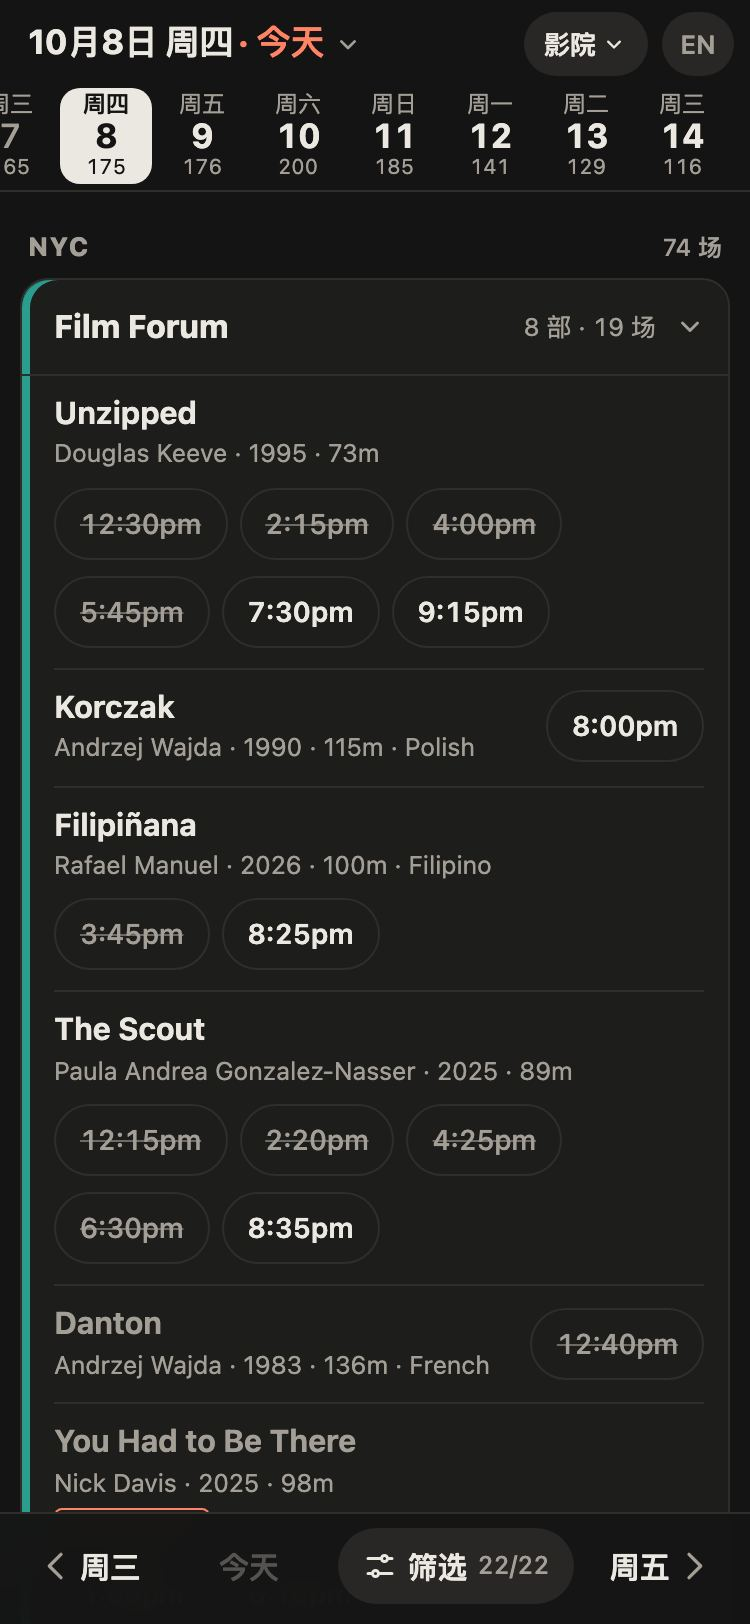
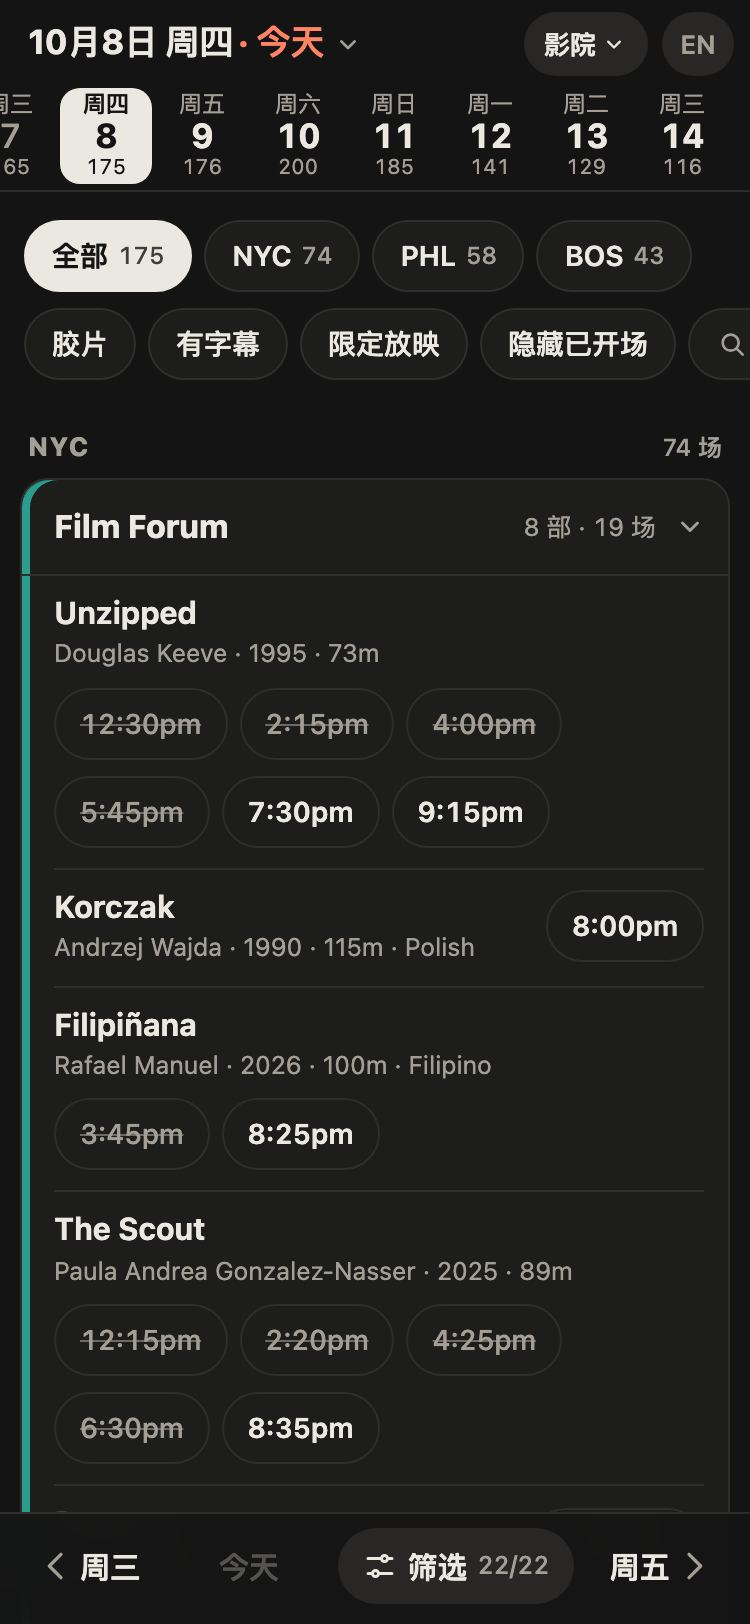
Cinemas layout: regions and filter switches as two rows of buttons above the cards
All / NYC / PHL / BOS with the day's counts (a region shows only that region; tapping it again brings all
back), then on film / subtitled / limited / hide started and search, so the common filters need no sheet.

diff --git a/site/m/_shared/chrome.js b/site/m/_shared/chrome.js
@@ -46,6 +46,7 @@
     filter: '<path d="M4 7h9M17 7h3M4 17h3M11 17h9"/><circle cx="15" cy="7" r="2"/><circle cx="9" cy="17" r="2"/>',
     down: '<path d="M7 10l5 5 5-5"/>',
     rows: '<path d="M4 6h16M4 10h16M4 14h16M4 18h16"/>',
+    search: '<circle cx="11" cy="11" r="6"/><path d="M20 20l-4.5-4.5"/>',
   };
   function icon(name, size = 20) {
     const s = el("span", { class: "m-ic", "aria-hidden": "true" });
@@ -141,6 +142,12 @@
     update({ regions, venues: withVenues });
   }
 
+  /** Every region on; one that was off comes back with all of its cinemas (as on the main page). */
+  function showAllRegions() {
+    const back = m.active.filter((v) => !state.regions.has(m.regionOf(v))).map((v) => v.id);
+    update({ regions: new Set(m.regions), venues: new Set([...state.venues, ...back]) });
+  }
+
   function setLang(l) {
     lang = l; t = C.translator(l);
     try { store && store.setItem(C.LS.lang, l); } catch (_) { /* ignore */ }
@@ -175,7 +182,7 @@
     ui.extra = cfg.extra ? el("button", { type: "button", class: "m-b", onclick: () => cfg.extra.onClick(context()) }) : null;
     ui.filterLbl = el("span");
     ui.filterN = el("span", { class: "m-b-n" });
-    ui.filter = el("button", { type: "button", class: "m-b m-b-filter", "aria-haspopup": "dialog", onclick: openFilters },
+    ui.filter = el("button", { type: "button", class: "m-b m-b-filter", "aria-haspopup": "dialog", onclick: () => openFilters() },
       el("span", { class: "m-b-pill" }, icon("filter", 18), ui.filterLbl, ui.filterN));
     ui.bottom = el("nav", { class: "m-bottom" + (ui.extra ? " five" : "") }, ui.prev, ui.today, ui.extra, ui.filter, ui.next);
     ui.scrim = el("div", { class: "m-scrim", onclick: () => closeSheet() });
@@ -269,7 +276,7 @@
       C, m, t, lang, el, icon, dot, store, state, now, today, list: list || C.visible(m, state, state.day, now, today),
       day: state.day, isToday: state.day === today, main: ui.main, top: ui.top,
       update, go, showDetail, toast, longPress, timePill, venueBadge, onlyVenue, empty: emptyState,
-      refresh: () => render({ keep: true }),
+      refresh: () => render({ keep: true }), quickFilters: () => quickFilters(now),
     };
   }
 
@@ -285,6 +292,8 @@
     const ctx = context(null, now);
     const out = m.data.generated_at ? cfg.render(ctx) : emptyState(t("noData"));
     ui.main.replaceChildren(...[].concat(out).filter(Boolean));
+    const chips = ui.main.querySelector(".m-chips[data-noswipe]");
+    if (chips) chips.scrollLeft = chipScroll;           // a tap far along the row keeps the row where it was
     if (opts.dayChanged) window.scrollTo(0, 0);
     if (cfg.after) cfg.after(ctx, opts);
     if (sheet && sheet.refresh) sheet.refresh();
@@ -373,7 +382,36 @@
       el("button", { type: "button", class: "m-btn small", onclick: () => closeSheet() }, btnLabel || t("done")));
   }
 
-  function openFilters() {
+  /** Regions, then the four switches and search, as two rows of buttons above the content: one tap, no sheet.
+   *  A region button shows only that region; tapping the only one shown brings every region back. */
+  let chipScroll = 0;
+  function quickFilters(now = new Date()) {
+    const day = m.forDay(state.day).filter((s) => C.passes(s, state, now, today));
+    const allOn = m.regions.every((r) => state.regions.has(r));
+    // what a region shows once picked: its chosen cinemas, or all of them when it is off now
+    const countIn = (r) => day.filter((s) => {
+      const v = m.venueById[s.venue_id] || {};
+      return m.regionOf(v) === r && (!state.regions.has(r) || state.venues.has(v.id));
+    }).length;
+    const chip = (label, on, onclick, n, cls = "") => el("button", {
+      type: "button", class: `m-chip${cls}${on ? " on" : ""}`, "aria-pressed": String(on), onclick,
+    }, label, n != null ? el("span", { class: "n" }, n) : null);
+    const regions = m.regions.length > 1 ? el("div", { class: "m-chips regions", role: "group", "aria-label": t("regions") },
+      chip(t("all"), allOn, showAllRegions, m.regions.reduce((n, r) => n + countIn(r), 0)),
+      m.regions.map((r) => chip(r, !allOn && state.regions.has(r),
+        () => (state.regions.size === 1 && state.regions.has(r) ? showAllRegions() : toggleRegion(r, true)), countIn(r)))) : null;
+    const switches = el("div", { class: "m-chips", role: "group", "aria-label": t("filter"), "data-noswipe": "",
+      onscroll: (e) => { chipScroll = e.currentTarget.scrollLeft; } },
+      [["film", "onFilm"], ["subs", "subs"], ["specials", "specials"], ["upcoming", "upcoming"]].map(([k, label]) =>
+        chip(t(label), state[k], () => update({ [k]: !state[k] }), null, " tg")),
+      state.q
+        ? el("button", { type: "button", class: "m-chip on", "aria-label": `${t("clearSearch")}: ${state.q}`, onclick: () => update({ q: "" }) },
+          `“${state.q}”`, el("span", { class: "x", "aria-hidden": "true" }, "×"))
+        : el("button", { type: "button", class: "m-chip", "aria-haspopup": "dialog", onclick: () => openFilters(true) }, icon("search", 16), t("searchShort")));
+    return el("div", { class: "m-qf" }, regions, switches);
+  }
+
+  function openFilters(focusSearch = false) {
     const count = el("strong", { class: "m-f-count", "aria-live": "polite" });
     let timer;
     const q = el("input", {
@@ -418,6 +456,7 @@
         }));
     };
     openSheet([sheetHead(count), q, toggles, venues], { label: t("filter"), refresh: fill, cls: "filters" });
+    if (focusSearch) q.focus({ preventScroll: true });
   }
 
   function mapsUrl(place) {

diff --git a/site/m/_shared/core.js b/site/m/_shared/core.js
@@ -15,7 +15,7 @@
     { id: "agenda", zh: "时间流", en: "Agenda",
       zhD: "所有影院按开始时间排成一列、按小时分组；已开场的折叠起来", enD: "Every cinema in one column by start time, grouped by hour; started shows fold away" },
     { id: "venues", zh: "影院", en: "Cinemas",
-      zhD: "一家影院一张卡，每部片一行，场次时间是可点的按钮", enD: "A card per cinema, a row per film, its times as buttons" },
+      zhD: "一家影院一张卡，每部片一行，场次时间是可点的按钮；区域和筛选开关就在页面上", enD: "A card per cinema, a row per film, its times as buttons; regions and filter switches right on the page" },
     { id: "guide", zh: "节目表", en: "Guide",
       zhD: "电视节目表式的横向时间轴：一家影院一行，重叠的场次上下叠放", enD: "A TV-guide timeline: a row per cinema, overlapping shows stacked" },
     { id: "films", zh: "影片", en: "Films",
@@ -36,7 +36,7 @@
       filmsShows: (f, n) => `${f} 部 · ${n} 场`, stale: (r) => `旧数据 · ${r}`, failed: "抓取失败",
       viaTag: (src) => `这家的主源暂时抓取失败，数据来自 ${src}，可能不全`, regions: "区域", website: "影院官网",
       // phone pages
-      filter: "筛选", venuesShows: (n, k) => `${n} 家影院 · ${k} 场`, clear: "清空", done: "完成", cinemas: "影院",
+      filter: "筛选", all: "全部", searchShort: "搜索", clearSearch: "清除搜索", venuesShows: (n, k) => `${n} 家影院 · ${k} 场`, clear: "清空", done: "完成", cinemas: "影院",
       onlyRegion: (r) => `只看 ${r}`, longPress: "点按选中或取消，长按只看这一家", started: (n) => `已开场 ${n} 场`, startedTag: "已开场",
       hideStarted: "收起", now: "现在", seeTomorrow: "看明天", seeDay: (d) => `看 ${d}`, prevDay: "前一天", nextDay: "后一天",
       pickDate: "选择日期", demos: "换个方案", chooser: "全部方案与评测清单", fullSite: "完整版网页", lang: "English",
@@ -57,7 +57,7 @@
       dayEmpty: "No matching screenings at the selected cinemas on this day.", close: "Close", minutes: (n) => `${n} min`, runtimeUnknown: "runtime unknown",
       filmsShows: (f, n) => `${f} film${f === 1 ? "" : "s"} · ${n} show${n === 1 ? "" : "s"}`, stale: (r) => `Stale · ${r}`, failed: "Fetch failed",
       viaTag: (src) => `This cinema's own site failed; data from ${src}, may be incomplete`, regions: "Regions", website: "Cinema website",
-      filter: "Filters", venuesShows: (n, k) => `${n} cinema${n === 1 ? "" : "s"} · ${k} show${k === 1 ? "" : "s"}`, clear: "None", done: "Done", cinemas: "Cinemas",
+      filter: "Filters", all: "All", searchShort: "Search", clearSearch: "Clear search", venuesShows: (n, k) => `${n} cinema${n === 1 ? "" : "s"} · ${k} show${k === 1 ? "" : "s"}`, clear: "None", done: "Done", cinemas: "Cinemas",
       onlyRegion: (r) => `Only ${r}`, longPress: "Tap to select, press and hold for only that one", started: (n) => `${n} already started`, startedTag: "started",
       hideStarted: "Hide", now: "Now", seeTomorrow: "Tomorrow", seeDay: (d) => `Go to ${d}`, prevDay: "Previous day", nextDay: "Next day",
       pickDate: "Pick a date", demos: "Switch layout", chooser: "All layouts and the test sheet", fullSite: "Full website", lang: "中文",

diff --git a/site/m/venues/venues.js b/site/m/venues/venues.js
@@ -1,6 +1,6 @@
 /* Cinemas (MOBILE.md §4 B) — a card per cinema: region by region, the cinema whose next screening comes
  * first on top. Each film is a row with its start times as pills. Tap a card's name to fold it; press and
- * hold it to show only that cinema. */
+ * hold it to show only that cinema. Regions and the filter switches sit in a row of buttons above the cards. */
 (function () {
   "use strict";
   const { el, icon } = window.MChrome;
@@ -52,19 +52,16 @@
 
   function render(ctx) {
     const { C, m, t, list, now } = ctx;
-    if (!list.length) return ctx.empty();
+    const chips = ctx.quickFilters();                 // regions and switches one tap away, above the cards
+    if (!list.length) return [chips, ctx.empty()];
     const byVenue = C.groupByVenue(list);
-    const out = [];
-    for (const r of m.regions) {
-      const rows = byVenue.filter(([vid]) => m.regionOf(m.venueById[vid]) === r)
-        .sort((a, b) => next(a[1], now) - next(b[1], now) || Date.parse(a[1][0].start) - Date.parse(b[1][0].start));
-      if (!rows.length) continue;
-      if (m.regions.length > 1) {
-        out.push(el("h2", { class: "vn-region" }, r, el("span", {}, t("shows", rows.reduce((n, [, l]) => n + l.length, 0)))));
-      }
-      out.push(rows.map(([vid, l]) => card(ctx, m.venueById[vid], l)));
-    }
-    return el("div", { class: "vn" }, out);
+    const regions = m.regions.map((r) => [r, byVenue.filter(([vid]) => m.regionOf(m.venueById[vid]) === r)
+      .sort((a, b) => next(a[1], now) - next(b[1], now) || Date.parse(a[1][0].start) - Date.parse(b[1][0].start))])
+      .filter(([, rows]) => rows.length);
+    return [chips, el("div", { class: "vn" }, regions.map(([r, rows]) => [
+      regions.length > 1 ? el("h2", { class: "vn-region" }, r, el("span", {}, t("shows", rows.reduce((n, [, l]) => n + l.length, 0)))) : null,
+      rows.map(([vid, l]) => card(ctx, m.venueById[vid], l)),
+    ]))];
   }
 
   window.MChrome.start({

diff --git a/site/m/index.html b/site/m/index.html
@@ -97,8 +97,8 @@
         "Top ≤ 96px, bottom ≤ 64px", "Top bar 96px; bottom bar 56px, growing by inset − 22px on phones with a home bar (64px at most)."],
       ["ok", "不依赖缩放", "双指缩放仍然可用（没加 user-scalable=no），但不需要它。",
         "No zooming needed", "Pinch zoom still works (no user-scalable=no) but nothing needs it."],
-      ["part", "一屏 ≥ 10 场", "时间流 11–16 场、影片 10–21、节目表 7–15（停在当天第一场附近时少）；影院卡片 6–15——按影院排，一屏常常只是一家影院的几部片。",
-        "≥ 10 screenings per screen", "Agenda 11–16, Films 10–21, Guide 7–15 (fewer when it opens on the day's first show); Cinemas 6–15 — one screen is often a few films at one cinema."],
+      ["part", "一屏 ≥ 10 场", "时间流 11–16 场、影片 10–21、节目表 7–15（停在当天第一场附近时少）；影院卡片 5–15——按影院排，一屏常常只是一家影院的几部片，顶上两排按钮也占了一行的位置。",
+        "≥ 10 screenings per screen", "Agenda 11–16, Films 10–21, Guide 7–15 (fewer when it opens on the day's first show); Cinemas 5–15 — one screen is often a few films at one cinema, and the two rows of buttons on top take a film's worth of space."],
       ["part", "片名 ≥ 15px、最多 2 行", "时间流 / 影院 15.5px，影片 17px；节目表 13.5px 单行（§4 C 规定 44px 色块内单行）。",
         "Titles ≥ 15px, two lines", "Agenda / Cinemas 15.5px, Films 17px; Guide 13.5px on one line (a 44px block, as §4 C asks)."],
       ["ok", "对比度、深色模式", "影院颜色只做色点或左边条；文字都在页面底色上。",

diff --git a/site/m/_shared/core.css b/site/m/_shared/core.css
@@ -126,6 +126,27 @@ a { color: inherit; }
 .m-empty p { margin: 0 0 16px; font-size: 15px; }
 .m-empty-acts { display: flex; gap: 10px; justify-content: center; flex-wrap: wrap; }
 
+/* quick filters: a row of regions, then a row of switches and search that scrolls sideways if it must */
+.m-qf { padding: 10px 0 2px; }
+.m-chips {
+  display: flex; align-items: center; gap: 6px; padding: 4px 12px; overflow-x: auto;
+  overscroll-behavior-x: contain; scrollbar-width: none;
+}
+.m-chips.regions { flex-wrap: wrap; overflow: visible; }
+.m-chips:not(.regions) .m-chip { font-weight: 500; }
+.m-chips::-webkit-scrollbar { display: none; }
+.m-chip {
+  position: relative; flex: none; display: inline-flex; align-items: center; gap: 5px; height: 36px; padding: 0 13px;
+  border: 1px solid var(--line); border-radius: 18px; background: var(--card); font-size: 14px; font-weight: 600; white-space: nowrap;
+}
+.m-chip::after { content: ""; position: absolute; inset: -4px -1px; }
+.m-chip .n { font-size: 12px; font-weight: 500; color: var(--muted); font-variant-numeric: tabular-nums; }
+.m-chip.on { background: var(--fg); border-color: var(--fg); color: var(--bg); }
+.m-chip.on .n { color: var(--bg); opacity: .8; }
+.m-chip.tg.on::before { content: "✓"; font-size: 12px; }
+.m-chip .x { font-size: 17px; font-weight: 400; line-height: 1; }
+.m-chip .m-ic { color: var(--muted); }
+
 /* time pills (detail sheet, cinemas, films): 36px drawn, 44px to the finger */
 .m-times { display: flex; flex-wrap: wrap; gap: 8px; }
 .m-time {

diff --git a/MOBILE.md b/MOBILE.md
@@ -169,13 +169,13 @@ demo 选择页列出下面的任务，用户在真机上每个 demo 都做一遍
 | | 时间流 | 影院 | 节目表 | 影片 |
 |---|---|---|---|---|
 | 顶栏 / 底栏 | 96 / 56px | 同 | 同 | 同 |
-| 一屏场次 | 11–16 | 6–15 | 7–15 | 10–21 |
-| DOM 节点（最忙一天） | 1,240 | 1,080 | 840 | 1,070 |
+| 一屏场次 | 11–16 | 5–15 | 7–15 | 10–21 |
+| DOM 节点（最忙一天） | 1,240 | 1,100 | 840 | 1,070 |
 | 换日耗时 | 4–7ms | 4–6ms | 6–8ms | 4–5ms |
 | 页面重量（不含 data.js） | 88KB，gzip 29KB | 85KB / 28KB | 89KB / 30KB | 89KB / 29KB |
 
 **未达到或部分达到的标准**
-- 第 4 条：影院卡片在电影节这类「每部只放一场」的日子一屏 6–7 场，影片 10 场左右——按影院 / 按影片排的固有代价。节目表停在当天第一场附近时也只有 7–9 场。
+- 第 4 条：影院卡片在电影节这类「每部只放一场」的日子一屏 5–6 场，影片 10 场左右——按影院 / 按影片排的固有代价。节目表停在当天第一场附近时也只有 7–9 场。
 - 第 5 条：节目表片名 13.5px 单行（§4 C 规定 44px 色块内单行）。
 - 第 7 条：紧凑模式的行高 36px（紧凑的用意）；时间按钮画 36px、可点区域 44px。
 - 第 8 条：节目表不支持滑动换日，横向滑动是它自己的滚动；换日用底栏和日期条。
@@ -190,3 +190,4 @@ demo 选择页列出下面的任务，用户在真机上每个 demo 都做一遍
 - 紧凑模式的开关是图标（≡）：文字按钮会把英文日期标题挤成省略号。
 - 详情抽屉另有：同一时间在其他影院、本院当天其他场次、地址（打开地图）、「只看这部」「只看这家」、影院官网。
 - 长按影院 = 只看这家，底部提示可以撤销；手机的返回键关闭抽屉而不是离开页面。
+- 影院卡片（选定的方案 B）在卡片上方加了两排按钮，不用打开筛选抽屉：第一排「全部 / NYC / PHL / BOS」带当天场次数，点一个区域只看这个区域，再点一次回到全部；第二排是胶片 / 有字幕 / 限定放映 / 隐藏已开场和搜索（有搜索词时显示搜索词，点 × 清除），放不下时左右滑动。按钮跟着页面滚动，不占固定区；滚到下面时仍用底栏的「筛选」。共用壳提供（`ctx.quickFilters()`），其他方案没有启用。
